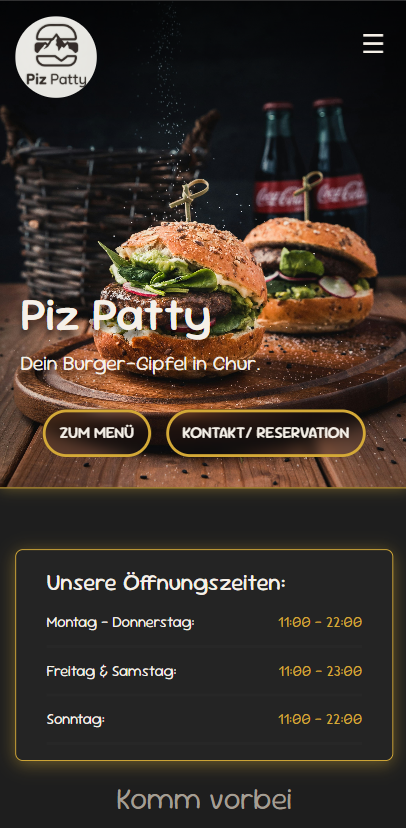
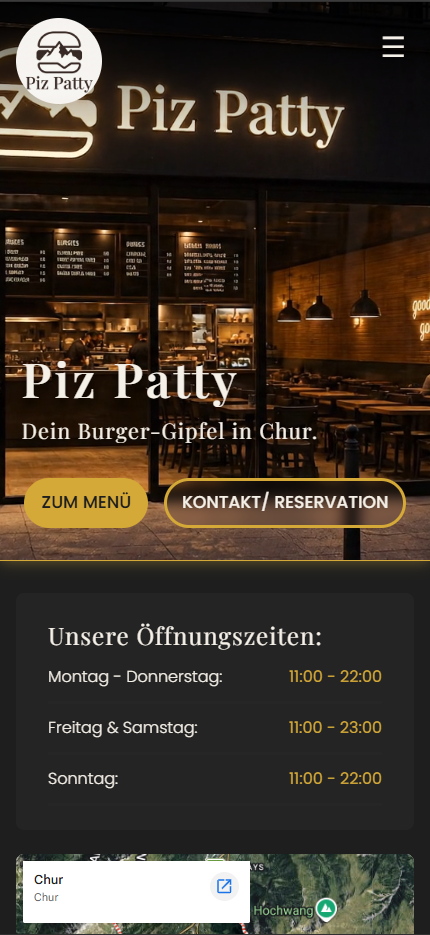
changed project pictures for piz patty

diff --git a/src/data/projects.js b/src/data/projects.js
@@ -6,7 +6,7 @@ import pizMenu from "../assets/piz-patty/piz-desktop-menu.png";
 import mobileMenu from "../assets/piz-patty/piz-mobile-menu.png";
 import cms from "../assets/piz-cms.png";
 
-import PizPattymockup from "../assets/piz-patty-mockup.webp";
+import PizPattymockup from "../assets/piz-patty-mockup.png";
 
 export const projects = [
   {
@@ -31,7 +31,7 @@ export const projects = [
             },
             {
               title: "Hero-Sektion",
-              text: "Ein emotionales, grossformatiges Titelbild, das sofort die Atmosphäre des Restaurants vermittelt und den Besucher willkommen heisst.",
+              text: "Ein emotionales, grossformatiges Titelbild oder Video, das sofort die Atmosphäre des Restaurants vermittelt und den Besucher willkommen heisst.",
             },
             {
               title: "Call-to-Action (CTA)",
@@ -41,12 +41,17 @@ export const projects = [
               title: "Öffnungszeiten",
               text: "Direkt im Sichtbereich platziert, damit Gäste die wichtigsten Informationen sofort finden, ohne suchen zu müssen.",
             },
+            {
+              title: "Google Maps-Integration",
+              text: "Unterhalb der Öffnungszeiten finden Ihre Kunden die Karte vom Restaurant. Wenn man da drauf klickt, kommt man direkt zu Google Maps und kann sogar eine Navigation starten.",
+            },
           ],
           highlights: [
             { x: 55, y: -6, label: "Navigationsleiste", right: true },
-            { x: 45, y: 41.5, label: "CTA Buttons" },
-            { x: 50, y: 10, label: "Hero Bild" },
+            { x: 45, y: 43.5, label: "CTA Buttons" },
+            { x: 50, y: 10, label: "Hero Sektion" },
             { x: 10, y: 53, label: "Öffnungszeiten" },
+            { x: 60, y: 68, label: "Google Maps" },
           ],
         },
         {
@@ -54,17 +59,17 @@ export const projects = [
           alt: "Features Desktop",
           description: [
             {
-              title: "Google Maps-Integration",
-              text: "Unterhalb der Öffnungszeiten finden Ihre Kunden die Karte vom Restaurant. Wenn man da drauf klickt, kommt man direkt zu Google Maps und kann sogar eine Navigation starten.",
-            },
-            {
               title: "Just Eat / Uber Eats",
               text: "Dank der direkten Schnittstellen zu Lieferdiensten können Kunden mit wenigen Klicks Bestellungen aufgeben. Das steigert den Umsatz und macht den Bestellvorgang kinderleicht.",
             },
+            {
+              title: "Footer",
+              text: "Der Footer enthält die wichtigsten Kontaktdaten und Links auf einen Blick. Adresse, Telefonnummer und E-Mail. So finden Besucher auch am Ende der Seite schnell den Weg zum Restaurant.",
+            },
           ],
           highlights: [
-            { x: 70, y: 28, label: "Google Maps" },
-            { x: 23, y: 60, label: "Bestellservice" },
+            { x: 23, y: 2, label: "Bestellservice" },
+            { x: 43, y: 52, label: "Footer" },
           ],
         },
         {
@@ -77,9 +82,9 @@ export const projects = [
             },
           ],
           highlights: [
-            { x: 28, y: 25, label: "Preis" },
-            { x: 3, y: 59, label: "Allergie Infos" },
-            { x: 9, y: 82, label: "Zutaten" },
+            { x: 28, y: 35, label: "Preis" },
+            { x: 3, y: 50, label: "Allergie Infos" },
+            { x: 49, y: 83, label: "Zutaten" },
           ],
         },
         {
@@ -135,7 +140,7 @@ export const projects = [
           ],
           highlights: [
             { x: 35, y: 12, label: "Google Maps", right: true },
-            { x: 45, y: 65, label: "link zu Bestellservices" },
+            { x: 45, y: 85, label: "link zu Bestellservices" },
           ],
         },
         {

diff --git a/src/components/project-details/ProjectDetails.jsx b/src/components/project-details/ProjectDetails.jsx
@@ -26,9 +26,9 @@ export default function ProjectDetails({ project, desktop, mobile }) {
       </div>
       <div className="flex flex-col gap-10">
         {(isMobile ? mobile : desktop).images.map((img) => (
-          <div key={img.alt} className="flex flex-col md:flex-row items-start gap-10">
-            <div className={`relative w-[full] ${!isMobile ? "md:max-w-190" : "md:max-w-110"} md:w-[50%] shrink-0`}>
-              <img className="rounded-xl w-full" src={img.src.src} alt={img.alt} />
+          <div key={img.alt} className="bg-gw-bg-card lg:p-8 rounded-2xl flex flex-col xl:flex-row gap-10">
+            <div className={`relative self-center w-full ${!isMobile ? "md:max-w-190" : "md:max-w-110"} xl:w-[50%] shrink-0`}>
+              <img className="rounded-xl" src={img.src.src} alt={img.alt} />
               {img.highlights &&
                 img.highlights.map((h, i) => (
                   <div

diff --git a/src/components/project-details/Accordion.jsx b/src/components/project-details/Accordion.jsx
@@ -6,7 +6,7 @@ export default function Accordion({ items }) {
   return (
     <div className="flex flex-col gap-2 w-full">
       {items.description.map((item, i) => (
-        <>
+        <div className="px-5">
           <div
             key={i}
             className="border-2 border-gw-accent-muted rounded-lg overflow-hidden mt-5"
@@ -28,7 +28,7 @@ export default function Accordion({ items }) {
               </div>
             )}
           </div>
-        </>
+        </div>
       ))}
     </div>
   );

diff --git a/README.md b/README.md
@@ -23,11 +23,12 @@ Innerhalb des Projekts findest du folgende Ordnerstruktur:
 /
 ├── public/          # Statische Assets (Favicon, etc.)
 ├── src/
-│   ├── assets/      # Bilder (PNG, JPG) und Vektorgrafiken (SVG)
-│   ├── components/  # Astro- & React-Komponenten (.jsx & .astro)
-│   ├── data/        # JSON oder JS-Dateien für Projektinhalte
+│   ├── assets/      # Bilder und SVGs (optimiert durch Astro)
+│   ├── components/  # Astro- & React-Komponenten (z.B. Accordion, Carousel)
+│   ├── data/        # Datenstrukturen für Projektinhalte
 │   ├── layouts/     # Basis-Templates (BaseLayout.astro)
-│   ├── pages/       # Routen und dynamische Seiten ([slug].astro)
-│   └── styles/      # Globale Styles (global.css)
-├── astro.config.mjs # Konfiguration für Astro
-└── package.json     # Projekt-Abhängigkeiten
+│   ├── pages/       # Routen und dynamische Inhalte
+│   └── styles/      # Globale Stylesheets
+├── astro.config.mjs # Framework-Konfiguration
+├── tsconfig.json    # TypeScript-Konfiguration
+└── package.json     # Projekt-Abhängigkeiten und Scripte
